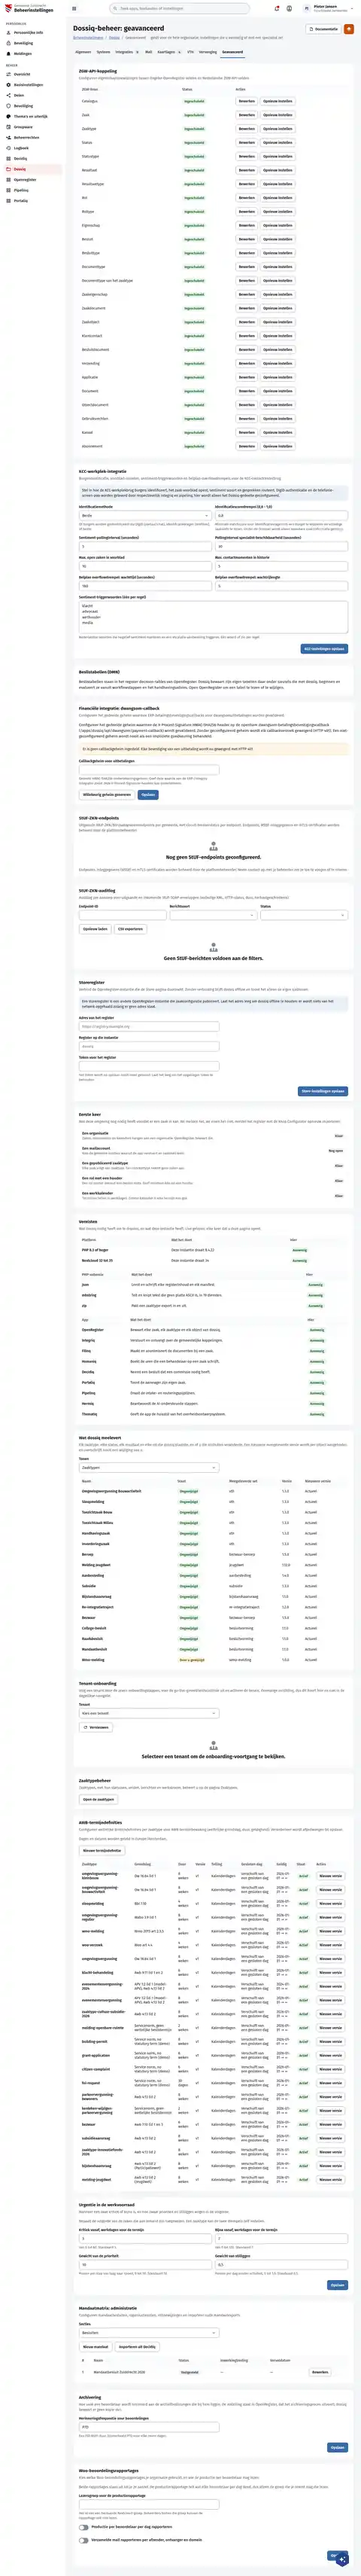
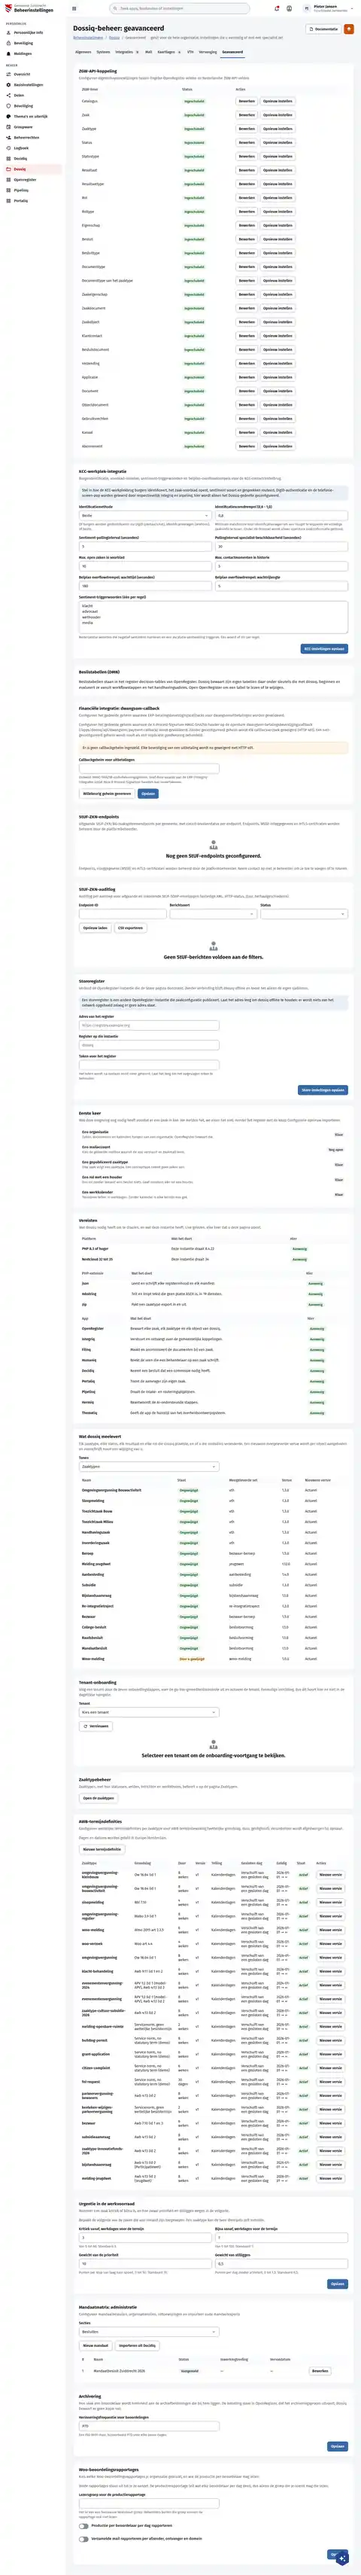
fix(screens): DqBeheerGeavanceerd Financiële integratie explains in the cards' second-paragraph look
r37 DqBeheerGeavanceerd: the Financiële card drew its longer explanation as
a 15px ink paragraph, where Urgentie in de werkvoorraad, AWB-termijndefinities
and Woo-beoordelingsrapportages draw theirs 14px muted at 1.5 (the plain
note), the look nc-vue gives every settings card's detailed description. The
card was 5.5px taller than live and every card under it followed. Built:
card 416.3 -> 411.8 (live 410.8).

Assisted-by: ClaudeCode:claude-opus-5-5

diff --git a/screens-src/zuiddrecht/DqBeheerGeavanceerd.dc.html b/screens-src/zuiddrecht/DqBeheerGeavanceerd.dc.html
@@ -48,7 +48,7 @@ class Component extends DCLogic {
         { para: 'Beslistabellen staan in het register decision-tables van OpenRegister. Dossiq bewaart zijn eigen tabellen daar onder sleutels die met dossiq. beginnen en evalueert ze vanuit workflowstappen en het handhavingsadvies. Open OpenRegister om een tabel te lezen of te wijzigen.' }
       ] },
       { name: 'Financiële integratie: dwangsom-callback', desc: 'Configureer het gedeelde geheim waarmee ERP-betalingsbevestigingscallbacks voor dwangsomuitbetalingen worden gevalideerd.', rows: [
-        { para: 'Configureer het gedeelde geheim waarmee de X-Procest-Signature HMAC-SHA256-header op de openbare dwangsom-betalingsbevestigingscallback (/apps/dossiq/api/dwangsom/payment-callback) wordt gevalideerd. Zonder geconfigureerd geheim wordt elk callbackverzoek geweigerd (HTTP 401). Een niet-geconfigureerd geheim wordt nooit als een impliciete goedkeuring behandeld.' },
+        { note: 'Configureer het gedeelde geheim waarmee de X-Procest-Signature HMAC-SHA256-header op de openbare dwangsom-betalingsbevestigingscallback (/apps/dossiq/api/dwangsom/payment-callback) wordt gevalideerd. Zonder geconfigureerd geheim wordt elk callbackverzoek geweigerd (HTTP 401). Een niet-geconfigureerd geheim wordt nooit als een impliciete goedkeuring behandeld.', tone: 'plain' },
         { note: 'Er is geen callbackgeheim ingesteld. Elke bevestiging van een uitbetaling wordt nu geweigerd met HTTP 401.', tone: 'warn' },
         { text: 'Callbackgeheim voor uitbetalingen', value: '', hint: 'Gedeeld HMAC-SHA256-ondertekeningsgeheim. Geef deze waarde aan de ERP-/Integriq-integrator zodat deze X-Procest-Signature-headers kan ondertekenen.' },
         { buttons: [['Willekeurig geheim genereren', ''], ['Opslaan', 'primary']] }

diff --git a/preview/screens/boards/DqBeheerGeavanceerd.html b/preview/screens/boards/DqBeheerGeavanceerd.html
@@ -330,10 +330,10 @@ media</textarea><span style="font-size: 13px; color: var(--sc-work-muted, #5e616
                 
                 
                 
-                  <p style="margin: 0; font-size: 15px; line-height: 1.5">Configureer het gedeelde geheim waarmee de X-Procest-Signature HMAC-SHA256-header op de openbare dwangsom-betalingsbevestigingscallback (/apps/dossiq/api/dwangsom/payment-callback) wordt gevalideerd. Zonder geconfigureerd geheim wordt elk callbackverzoek geweigerd (HTTP 401). Een niet-geconfigureerd geheim wordt nooit als een impliciete goedkeuring behandeld.</p>
                 
                 
                 
+                  <p style="margin: 0; padding: 10px 12px; border-radius: 8px; font-size: 14px; line-height: 1.5; padding: 0; color: var(--sc-work-muted, #5e6168)">Configureer het gedeelde geheim waarmee de X-Procest-Signature HMAC-SHA256-header op de openbare dwangsom-betalingsbevestigingscallback (/apps/dossiq/api/dwangsom/payment-callback) wordt gevalideerd. Zonder geconfigureerd geheim wordt elk callbackverzoek geweigerd (HTTP 401). Een niet-geconfigureerd geheim wordt nooit als een impliciete goedkeuring behandeld.</p>
                 
                 
               
